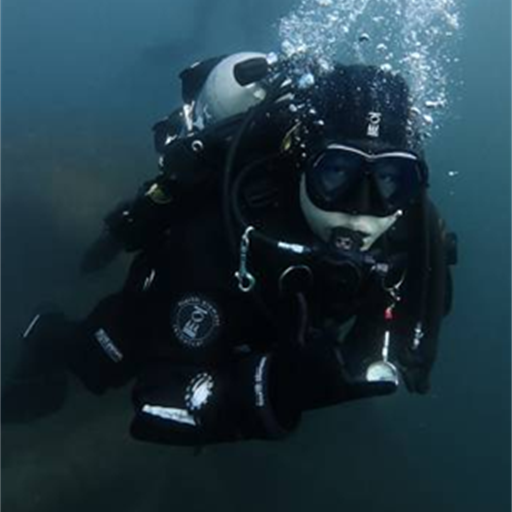
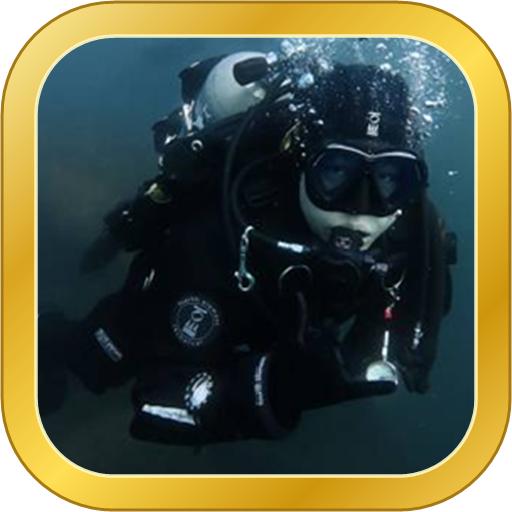
feat: add Public Edition (white border, no default tour) and Personal Gold Limited Edition (gold border, 29-item Okinawa preset)

diff --git a/www/index.html b/www/index.html
@@ -2121,8 +2121,11 @@
     </div>
   </div>
 
+  <script src="edition.js"></script>
   <script src="pongdang_db.js"></script>
   <script>
+    const IS_PUBLIC_EDITION = (window.APP_EDITION === "PUBLIC");
+
     const DEFAULT_TOUR_META = {
       place: "오키나와 투어 패킹",
       dates: "11.12 ~ 15",
@@ -2132,8 +2135,8 @@
       carryonLimit: 10.0
     };
 
-    // 사용자 실제 보유 장비 리스트 — 포스엘리먼트 공식 스토어(fourthelement.kr) & 퐁당닷컴(pongdang.com) DB 제품 매칭 완료
-    const FACTORY_DEFAULT_ITEMS = [
+    // 한정판 전용: 사용자 실제 보유 장비 리스트 — 포스엘리먼트 공식 스토어(fourthelement.kr) & 퐁당닷컴(pongdang.com) DB 제품 매칭 완료
+    const LIMITED_DEFAULT_ITEMS = [
       // 1. 가방류 (2.20 kg)
       { name: "[포스엘리먼트] 익스페디션 더플백 90L 오렌지 EXPEDITION DUFFEL BAG", desc: "포스공홈 · 가방 | 메인 위탁 아우터 가방", cat: "가방류", weight: 1.50, bag: "위탁", fixed: true, checked: false, excluded: false, dbId: "fe_1037", thumb: "https://fourthelement.kr/web/product/medium/202607/94b6296dd664efdee877b23b5d37f99f.jpg" },
       { name: "[패디] 패디 대형 세척 가방, PADI LARGE MESH POUCH", desc: "퐁당닷컴 · 가방 | 내부에 OMS 메쉬 파우치 수납", cat: "가방류", weight: 0.40, bag: "위탁", fixed: true, checked: false, excluded: false, dbId: "47737", thumb: "/data/goods/77/2026/03/47737_temp_17731303377422list1.jpg" },
@@ -2180,6 +2183,9 @@
       { name: "[포스엘리먼트] 락호퍼 숏부츠 ROCK HOPPER 3MM SHOE", desc: "포스공홈 · 부츠 | 텍핀 전용 다이빙 슈즈", cat: "의류/보온", weight: 0.50, bag: "위탁", fixed: false, checked: false, excluded: true, dbId: "fe_124", thumb: "https://fourthelement.kr/web/product/medium/202609/512802b6d333eb8ed020f431ba96041d.jpg" }
     ];
 
+    // 배포용(PUBLIC)은 기본 오키나와/개인 장비 데이터를 비워두고 시작
+    const FACTORY_DEFAULT_ITEMS = IS_PUBLIC_EDITION ? [] : LIMITED_DEFAULT_ITEMS;
+
     const LEGACY_NAME_TO_DEFAULT_IDX = {
       "포스 익스페디션 주황색 90L 백": 0,
       "PADI 메쉬백 (OMS 파우치를 내부에 수납)": 1,
@@ -2212,12 +2218,13 @@
       "포스 락호퍼 슈즈": 28
     };
 
-    const TOURS_STORAGE_KEY = "scuba_saved_tours_v5";
-    const CUSTOM_DEFAULT_KEY = "scuba_custom_default_items_v6";
+    const TOURS_STORAGE_KEY = IS_PUBLIC_EDITION ? "scuba_public_saved_tours_v1" : "scuba_saved_tours_v5";
+    const CUSTOM_DEFAULT_KEY = IS_PUBLIC_EDITION ? "scuba_public_custom_default_v1" : "scuba_custom_default_items_v6";
     const API_KEY_STORAGE = "okinawa_gemini_api_key";
 
     function migrateItemListToDbMatched(itemList) {
       if (!Array.isArray(itemList)) return JSON.parse(JSON.stringify(FACTORY_DEFAULT_ITEMS));
+      if (IS_PUBLIC_EDITION) return { migrated: itemList, changed: false };
       let changed = false;
       const migrated = itemList.map((it) => {
         if (!it) return it;
@@ -2266,22 +2273,29 @@
         const raw = localStorage.getItem(TOURS_STORAGE_KEY);
         if (raw) {
           const parsed = JSON.parse(raw);
-          if (Array.isArray(parsed) && parsed.length > 0) {
-            let anyMigrated = false;
-            parsed.forEach(t => {
-              const res = migrateItemListToDbMatched(t.items);
-              if (res.changed) {
-                t.items = res.migrated;
-                anyMigrated = true;
+          if (Array.isArray(parsed)) {
+            if (IS_PUBLIC_EDITION) return parsed;
+            if (parsed.length > 0) {
+              let anyMigrated = false;
+              parsed.forEach(t => {
+                const res = migrateItemListToDbMatched(t.items);
+                if (res.changed) {
+                  t.items = res.migrated;
+                  anyMigrated = true;
+                }
+              });
+              if (anyMigrated) {
+                localStorage.setItem(TOURS_STORAGE_KEY, JSON.stringify(parsed));
               }
-            });
-            if (anyMigrated) {
-              localStorage.setItem(TOURS_STORAGE_KEY, JSON.stringify(parsed));
+              return parsed;
             }
-            return parsed;
           }
         }
       } catch (e) {}
+      if (IS_PUBLIC_EDITION) {
+        localStorage.setItem(TOURS_STORAGE_KEY, JSON.stringify([]));
+        return [];
+      }
       const initial = [{
         id: "tour_" + Date.now(),
         meta: Object.assign({}, DEFAULT_TOUR_META),
@@ -2405,6 +2419,23 @@
       const listContainer = document.getElementById("tour-list-container");
       listContainer.innerHTML = "";
 
+      if (savedTours.length === 0) {
+        const emptyCard = document.createElement("div");
+        emptyCard.className = "card";
+        emptyCard.style.cssText = "text-align:center; padding:30px 18px; border:1px dashed rgba(56,189,248,0.45); background:rgba(15,23,42,0.72);";
+        emptyCard.innerHTML = `
+          <div style="font-size:2.3rem; margin-bottom:8px;">🤿</div>
+          <div style="font-size:1rem; font-weight:700; color:#f8fafc; margin-bottom:6px;">등록된 다이빙 투어가 없습니다</div>
+          <div style="font-size:0.81rem; color:var(--subtext-color); line-height:1.55; margin-bottom:14px;">
+            상단 <strong>[➕ 새 투어]</strong> 버튼을 눌러 여행지와 일정을 선택하면<br/>
+            AI 이동편·바다 날씨 브리핑과 함께 6,403종 장비 DB에서 나만의 패킹 리스트를 구성할 수 있습니다.
+          </div>
+          <button class="btn btn-primary" onclick="openNewTourModal()" style="padding:10px 18px; font-size:0.86rem;">➕ 첫 다이빙 투어 등록하기</button>
+        `;
+        listContainer.appendChild(emptyCard);
+        return;
+      }
+
       savedTours.forEach((t) => {
         const activeItems = (t.items || []).filter(i => !i.excluded);
         const checkedItems = activeItems.filter(i => i.checked);
@@ -2460,7 +2491,7 @@
     }
 
     function deleteTour(id) {
-      if (savedTours.length <= 1) {
+      if (!IS_PUBLIC_EDITION && savedTours.length <= 1) {
         alert("최소 1개의 투어 목록은 남겨두어야 합니다.");
         return;
       }
@@ -2624,12 +2655,15 @@
     }
 
     function resetCurrentTour() {
-      if (confirm("초기 장비 세팅(원본 29종)으로 복원할까요?")) {
+      const msg = IS_PUBLIC_EDITION
+        ? "현재 투어의 장비 목록을 초기화(비우기)할까요?"
+        : "초기 장비 세팅(원본 29종)으로 복원할까요?";
+      if (confirm(msg)) {
         localStorage.removeItem(CUSTOM_DEFAULT_KEY);
         items = JSON.parse(JSON.stringify(FACTORY_DEFAULT_ITEMS));
         syncCurrentTourToStorage();
         renderDetail();
-        showToast("✅ 초기 장비로 복원되었습니다.");
+        showToast(IS_PUBLIC_EDITION ? "✅ 장비 목록이 초기화되었습니다." : "✅ 초기 장비로 복원되었습니다.");
       }
     }
 
@@ -2751,6 +2785,17 @@
 
       const container = document.getElementById("items-container");
       container.innerHTML = "";
+
+      if (activeItems.length === 0) {
+        const emptyBox = document.createElement("div");
+        emptyBox.style.cssText = "background:rgba(15,23,42,0.55); border:1px dashed rgba(56,189,248,0.3); border-radius:12px; padding:18px 14px; text-align:center; color:var(--subtext-color); font-size:0.84rem; margin-bottom:10px;";
+        emptyBox.innerHTML = `
+          <div style="font-size:1.3rem; margin-bottom:6px;">🎒</div>
+          <div style="color:#f8fafc; font-weight:700; margin-bottom:4px;">담긴 장비가 없습니다</div>
+          <div>위의 <strong>[🔍 장비 검색/추가]</strong>(포스엘리먼트·퐁당닷컴 6,403종 DB), <strong>[📸 AI 촬영]</strong> 또는 아래 <strong>[⚡ 빠른 장비 추가]</strong>로 장비를 담아보세요.</div>
+        `;
+        container.appendChild(emptyBox);
+      }
 
       presentCats.forEach(cat => {
         const catItems = activeItems.filter(i => i.cat === cat);

diff --git a/www/sw.js b/www/sw.js
@@ -1,5 +1,5 @@
-const CACHE_NAME = "diving-packing-v11";
-const ASSETS = ["./", "./index.html", "./manifest.json", "./icon.png", "./icon.svg", "./pongdang_db.js"];
+const CACHE_NAME = "diving-packing-v12";
+const ASSETS = ["./", "./index.html", "./manifest.json", "./icon.png", "./icon.svg", "./edition.js", "./pongdang_db.js"];
 
 self.addEventListener("install", (e) => {
   e.waitUntil(

diff --git a/www/edition.js b/www/edition.js
@@ -1,0 +1,2 @@
+// Edition Configuration: "LIMITED" (Gold Border + Okinawa 29 Gear Default) | "PUBLIC" (White Border + Clean Empty Start)
+window.APP_EDITION = "LIMITED";
